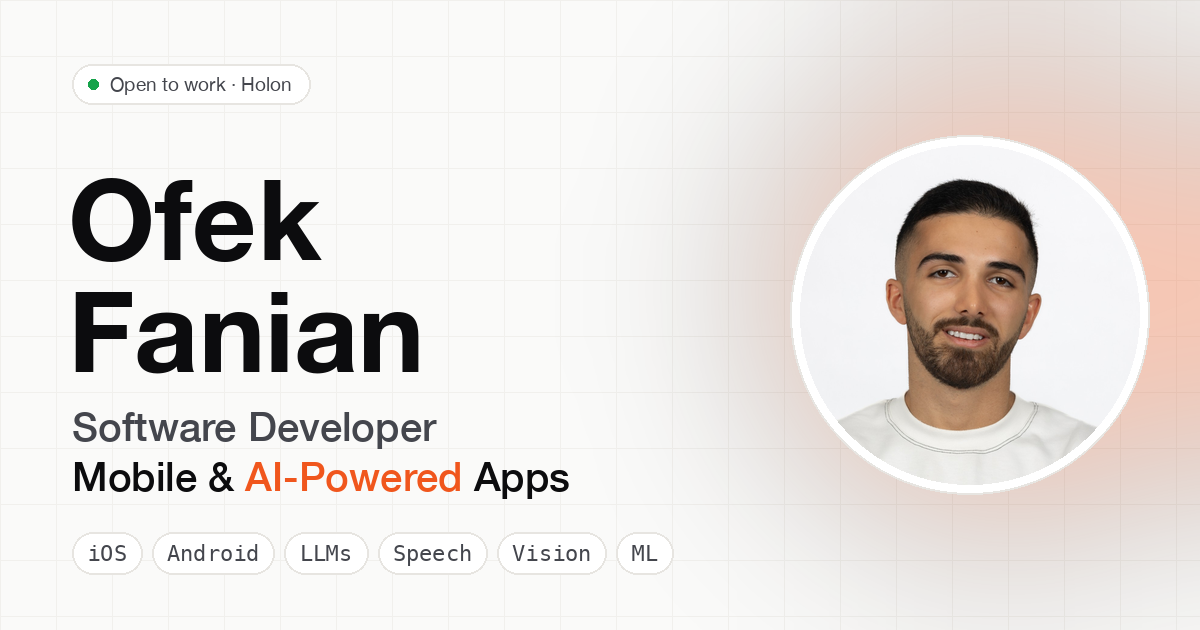
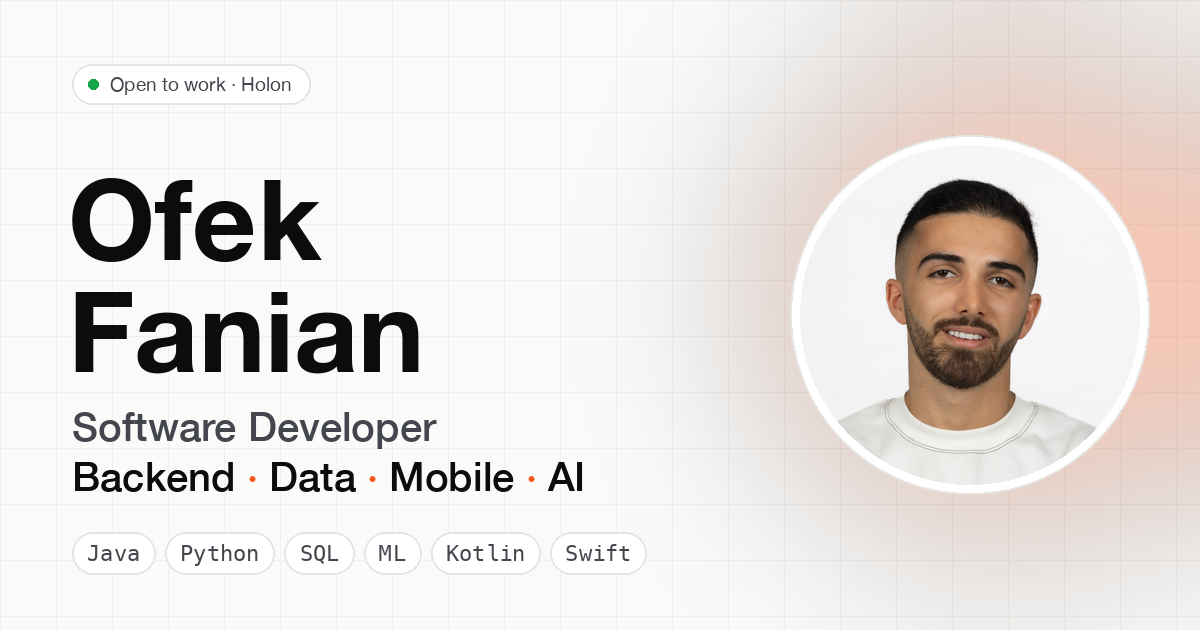
Update share image to broader positioning

Changed region(s): [[0.0617, 0.7238, 0.4933, 0.7841], [0.2467, 0.8444, 0.555, 0.9048], [0.0617, 0.8444, 0.2158, 0.9048]]

diff --git a/index.html b/index.html
@@ -14,7 +14,7 @@
   <meta property="og:title" content="Ofek Fanian · Software Developer | Backend · Data & ML · Mobile · AI">
   <meta property="og:description" content="Backend, data, mobile and AI projects, from a normalized PostgreSQL system and a 98%-accurate spam classifier to iOS and Android apps with LLM features.">
   <meta property="og:url" content="https://ofekfanian.com/">
-  <meta property="og:image" content="https://ofekfanian.com/og-image.png">
+  <meta property="og:image" content="https://ofekfanian.com/og-image.png?v=2">
   <meta property="og:image:width" content="1200">
   <meta property="og:image:height" content="630">
   <meta name="twitter:card" content="summary_large_image">
